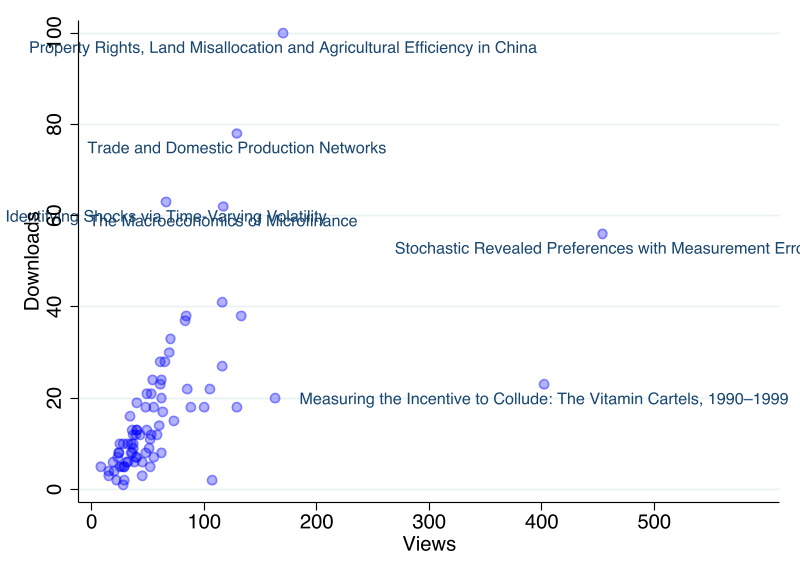
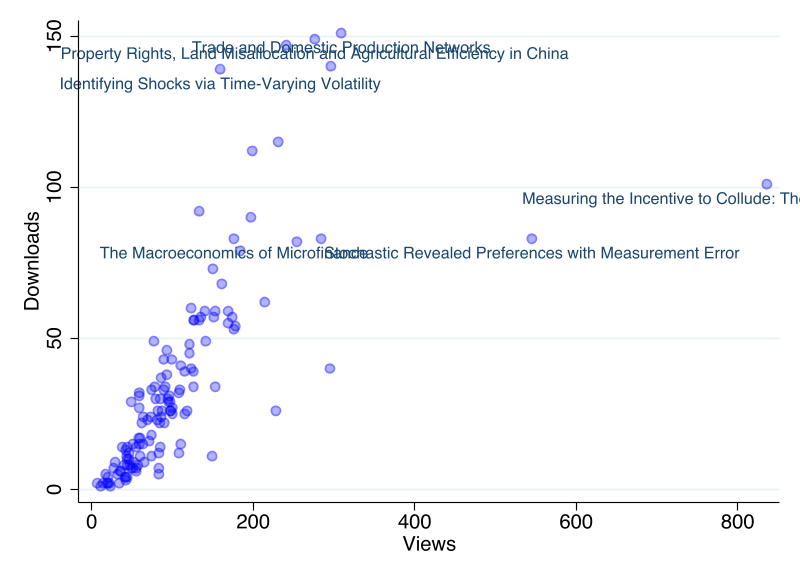
Pull new Zenodo data (resolves #14)

diff --git a/zenodo/zenodo_pull.py b/zenodo/zenodo_pull.py
@@ -1,4 +1,5 @@
 #need an empirical distribution of download and view numbers for zenodo packages
+from webbrowser import get
 import requests
 import json
 import csv
@@ -9,32 +10,30 @@ class Zenodo(object):
         self.id = id
         self.meta = requests.get(self.__class__.URL + f'/{self.id}').json()
 
+FIELDS = 'id revision stats/downloads stats/views stats/unique_downloads stats/unique_views'.split()
+
+def get_field(json, field):
+    parts = field.split('/')
+    subtree = json
+    for part in parts:
+        subtree = subtree[part]
+    return subtree
+
+def filter_fields(json, fields):
+    return {key.split('/')[-1]: get_field(json, key) for key in fields}
+
+def get_collection(collection):
+    URL = f'https://zenodo.org/api/records?communities={collection}&size=999'
+    data = requests.get(URL).json()
+    return [filter_fields(row, FIELDS) for row in data['hits']['hits']]
 
 def main():
-    with open('zenodoid.json', 'r') as json_file:
-            json_data = json.load(json_file)
-
-    zenodo_data = {'zenodoid': "", 'downloads': "", 'unique_downloads': "", 'views': "", 'unique_views': "", 'revisions':""}
-    zenodo = csv.DictWriter(open('zenodo_data.csv','w'), fieldnames=list(zenodo_data.keys()))
+    zenodo_data = get_collection('restud-replication')
+    zenodo = csv.DictWriter(open('zenodo_data_2022.csv','wt'), fieldnames=list(zenodo_data[0].keys()))
     zenodo.writeheader()
-
-    for i in range(len(json_data)):
-        zenodoid = json_data[i]['zenodoid']
-        print(i)
-        zenodo_pack = Zenodo(zenodoid)
-        zenodo_data['zenodoid'] = zenodoid
-        zenodo_data['downloads'] = zenodo_pack.meta['stats']['downloads']
-        zenodo_data['unique_downloads'] = zenodo_pack.meta['stats']['unique_downloads']
-        zenodo_data['views'] = zenodo_pack.meta['stats']['views']
-        zenodo_data['unique_views'] = zenodo_pack.meta['stats']['unique_views']
-        zenodo_data['revisions'] = zenodo_pack.meta['revision']
-        zenodo.writerow(zenodo_data)
-
-        # The api calls are limited to 60/min therefore we have to wait before continue.
-        if (i+1)%60 == 0:
-            time.sleep(65)
-        else :
-            pass
+    
+    for row in zenodo_data:
+        zenodo.writerow(row)
 
 
 if __name__== '__main__':
